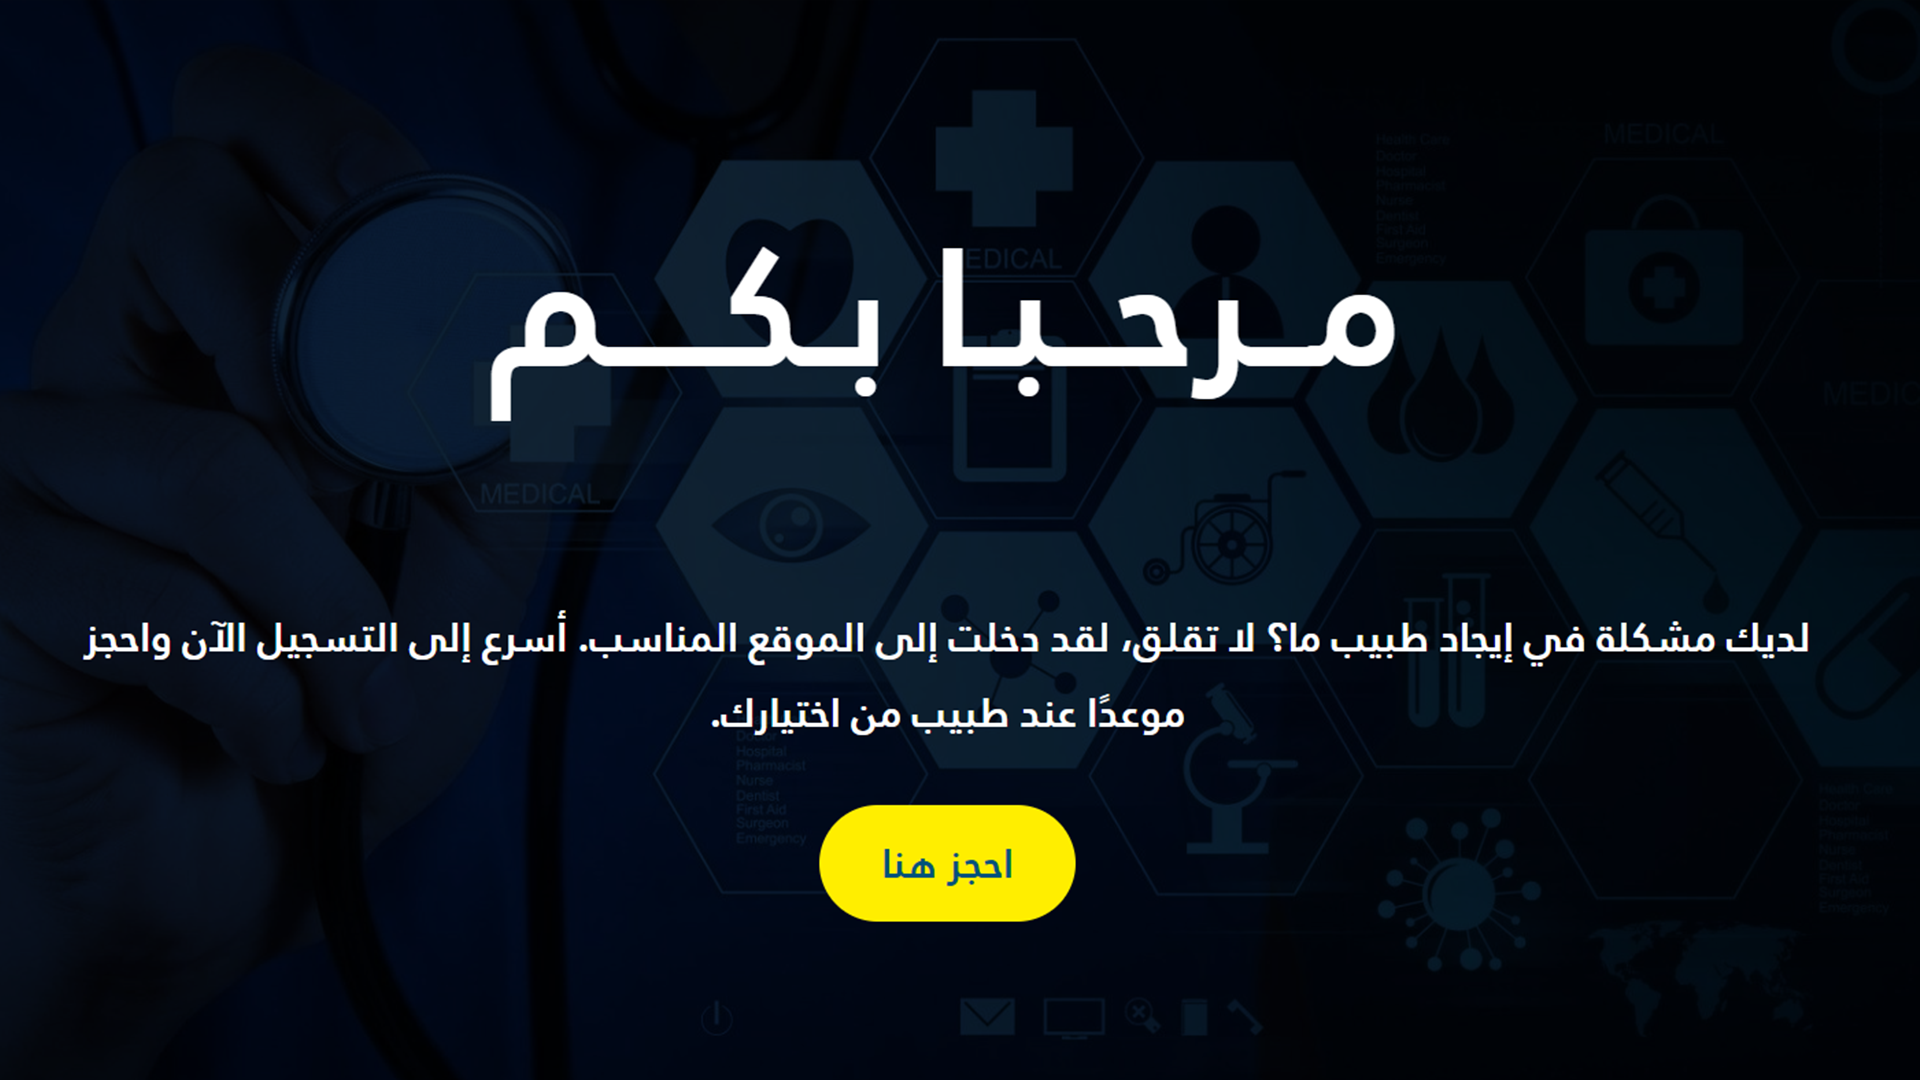
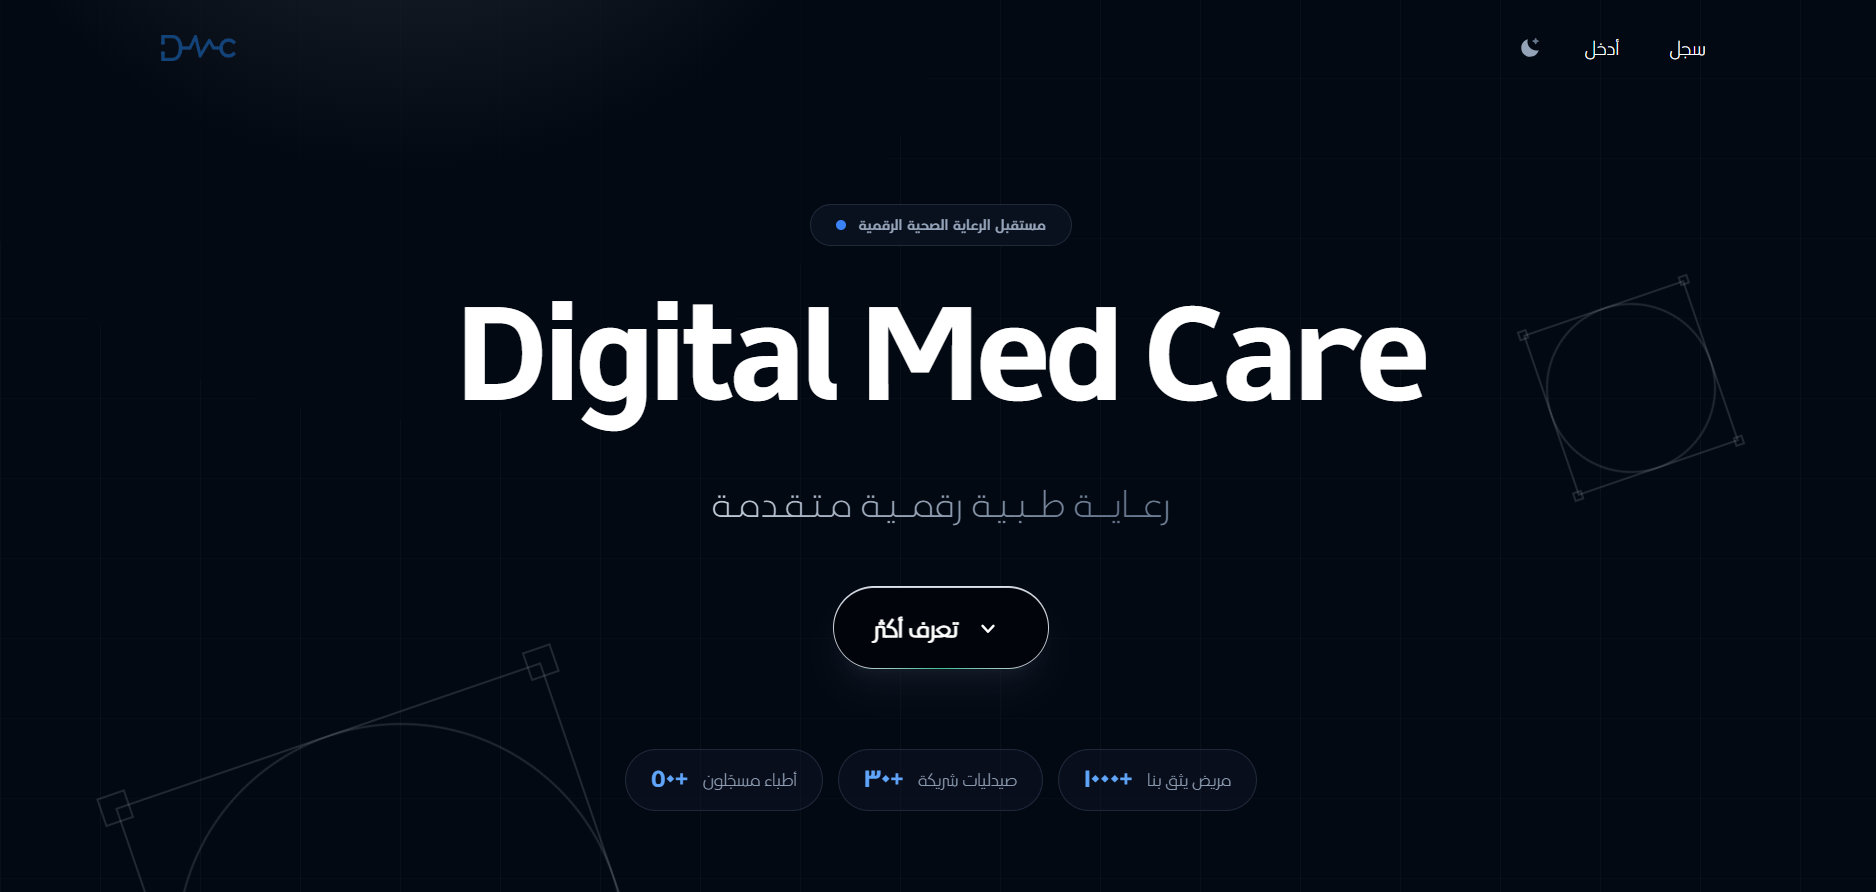
Adding DMC Project

diff --git a/src/lib/components/Works.svelte b/src/lib/components/Works.svelte
@@ -10,6 +10,7 @@
   import tilawah_mobile from "../img/tilawah_mobile.jpg";
   import aklee from "../img/aklee.jpg";
   import campus from "../img/campus.png";
+  import DMC from "../img/DMC.png";
 
   interface Project {
     src: string;
@@ -38,8 +39,17 @@
       tagline: "Empowering Youth Through Digital Presence",
       purpose: "Built to give the Chababouna association a modern digital platform to showcase their mission, activities, and connect with the community they serve.",
       impact: "Enabled the organization to reach more youth, streamline event registrations, and establish credibility through professional online presence.",
-      link: "https://chababouna.dz",
+      link: "",
       accentColor: "from-emerald-500/40 to-teal-600/40",
+    },
+    {
+      src: DMC,
+      name: "Digital Med Care",
+      tagline: "Revolutionizing Healthcare Access",
+      purpose: "Developed to provide patients with a seamless digital experience for booking appointments, accessing medical records, and communicating with healthcare providers. Also, having the ability to look for rare medications and order them online.",
+      impact: "Improved patient engagement and satisfaction by reducing wait times and enhancing the accessibility of healthcare services.",
+      link: "",
+      accentColor: "from-cyan-500/40 to-blue-600/40",
     },
     {
       src: spiral,

diff --git a/src/lib/components/About.svelte b/src/lib/components/About.svelte
@@ -52,7 +52,7 @@ onMount(() => {
 });
 </script>
 
-<section id="about-section" class="relative min-h-screen w-full flex items-center justify-center overflow-hidden py-24 bg-black">
+<section id="about" class="relative min-h-screen w-full flex items-center justify-center overflow-hidden py-24 bg-black">
   <!-- Decorative background blur blobs -->
   <div class="bg-blob bg-blob-1 absolute top-0 left-[-10%] w-[300px] h-[300px] md:w-[600px] md:h-[600px] rounded-full bg-blue-600/20 blur-[120px] pointer-events-none"></div>
   <div class="bg-blob bg-blob-2 absolute bottom-[-10%] right-[-10%] w-[300px] h-[300px] md:w-[600px] md:h-[600px] rounded-full bg-purple-600/20 blur-[120px] pointer-events-none"></div>
